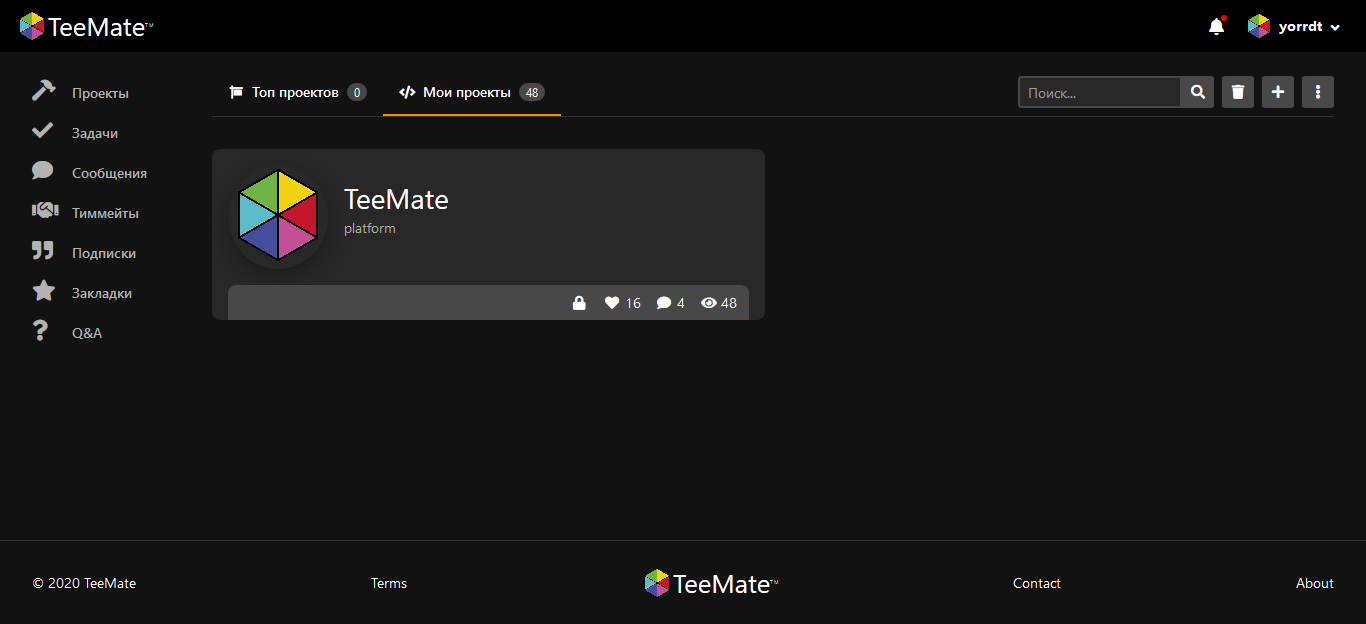
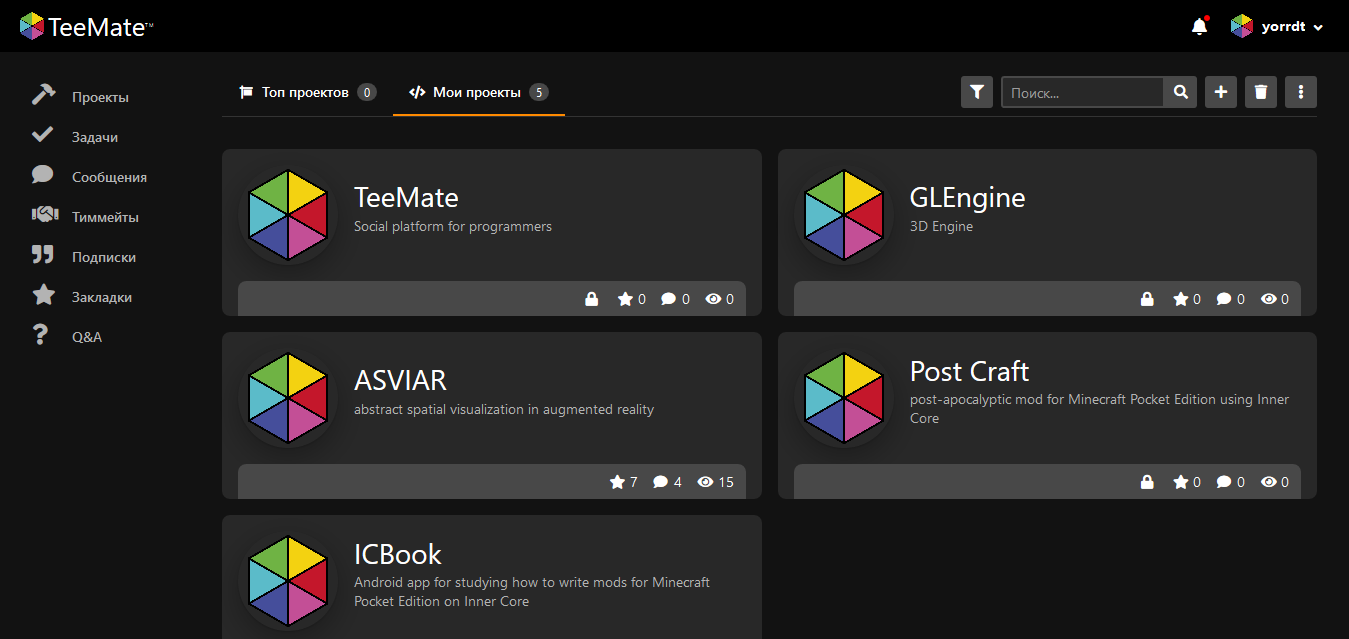
new illustrtion, small fixes, search filter

diff --git a/components/style/profile.css b/components/style/profile.css
@@ -154,18 +154,9 @@
 	grid-template-columns: repeat(auto-fill, minmax(460px, 1fr));
 }
 
-.proj-image {
-	border-radius: 50%;
-	height: 100%;
-	width: 100%;
-	max-width: 100px;
-	max-height: 100px;
-}
-
 .grid-container {
 	display: flex;
 	flex-direction: column;
-	width: 100%;
 	background-color: var(--container);
 	border-radius: 8px;
 	padding: 16px 16px 0px;
@@ -173,7 +164,6 @@
 
 .proj-container-info {
 	display: flex;
-	flex-direction: row;
 	align-items: center;
 	padding-bottom: 16px;
 }
@@ -188,6 +178,14 @@
 	border-radius: 50%;
 	box-shadow: 0 10px 30px 0 rgba(0, 0, 0, .3), 0 1px 2px 0 rgba(0, 0, 0, .2);
 	margin-right: 16px;
+	max-width: 100px;
+	max-height: 100px;
+}
+
+.proj-image {
+	border-radius: 50%;
+	height: 100%;
+	width: 100%;
 }
 
 .proj-description {

diff --git a/components/html/profile.html b/components/html/profile.html
@@ -16,6 +16,11 @@
 			<div class="content-navbar">
 				<ul>
 					<li class="content-navbar-item">
+						<button class="content-navbar-button">
+							<span class="button-icon fas fa-filter"></span>
+						</button>
+					</li>
+					<li class="content-navbar-item">
 						<div class="content-navbar-search">
 							<input class="form-search" type="text" value="" placeholder="Поиск...">
 							<button class="content-navbar-button">
@@ -61,7 +66,7 @@
 						</div>
 					</div>
 					<div class="proj-back">
-						<div class="proj-back-item">
+						<div class="proj-back-item" v-if="ProjData.private">
 							<span class="back-item-icon" v-bind:class="{ 'fas fa-lock' : ProjData.private }"></span>
 						</div>
 						<div class="proj-back-item">
